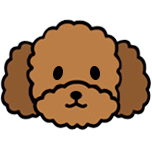
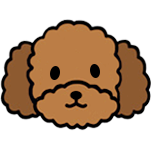
로고 변경 및 사이드바 텍스트 변경

Changed region(s): [[0.3158, 0.4211, 0.4211, 0.5263], [0.5789, 0.4211, 0.6579, 0.5263]]

diff --git a/_includes/sidebar.html b/_includes/sidebar.html
@@ -34,11 +34,11 @@
 		<br>
 		<br>
         <span class="notice">
-
-		잘못된 내용이 있다면 부담없이<br/>
+		잘못된 내용이 있다면 부담없이
 		댓글 남겨주세요<br/>
 		지난 포스트도 새로 알게 된 내용이나<br/>
-		추가하고 싶은 내용을 자주 수정합니다 ❛ ֊ ❛
+		추가하고 싶은 내용을 자주 수정합니다 <br/>
+		(•ө•)♡
         </span>
         </p>
       </div>
